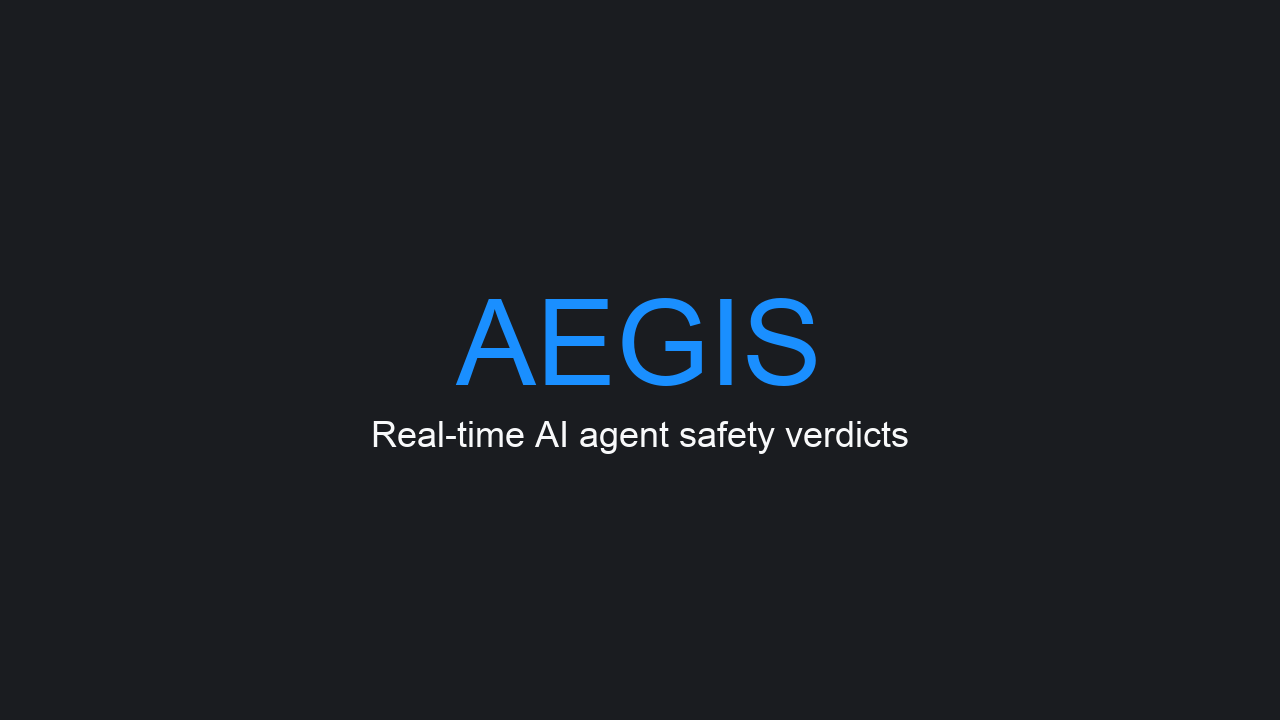
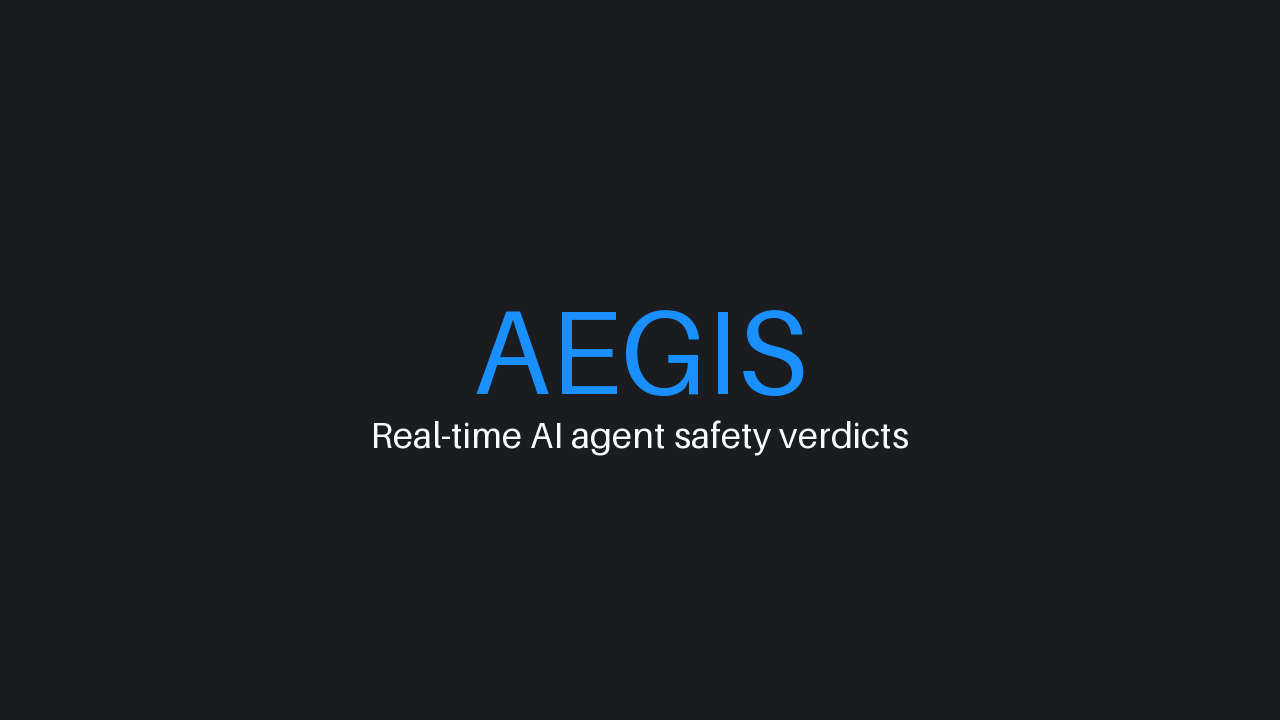
fix(app-09): close font-determinism + Pillow-pin blockers
Multi-reviewer pass (code-reviewer + silent-failure-hunter +
simplification-reviewer) all flagged the same two issues — when three
reviewers converge from different angles, the root cause is real.

Font determinism (was: HIGH-severity silent failure):
- _load_font walked a Mac/Linux candidate list. Committed screenshot.png
  was baked with macOS Arial; a Linux CI runner without Arial would
  regenerate with DejaVu (or worse, bitmap fallback at the wrong size),
  silently failing BDD block-4's md5 round-trip.
- Fix: drop the candidate lookup entirely; use ImageFont.load_default
  (size=...) which ships byte-identical bytes with Pillow on every OS
  and every install. The 5-LOC _load_font helper is gone.

Pillow pin (was: HIGH-severity silent failure):
- pyproject.toml floored Pillow at >=12.2.0. A future minor bump can
  ship encoder/zlib heuristic tweaks that shift PNG bytes without any
  code change here, silently breaking the determinism assertion.
- Fix: pin pillow==12.2.0 exact. Comment in pyproject.toml points at
  the BDD assertion that drives the pin.

Net effect: screenshot.png md5 changed (a3edd2 -> 1b07a7) because the
glyph metrics are now Pillow's default font instead of macOS Arial.
The 4 icon PNGs are unchanged (no text in them).

Reading from local + a fresh uv-locked Pillow 12.2.0 environment now
produces byte-identical PNGs to the committed ones across machines:

  appIcon.png       90c0d236309349945d6a40f8d858de1b
[…]

Changed region(s): [[0.3438, 0.3972, 0.6562, 0.55], [0.2812, 0.5806, 0.7188, 0.6417]]

diff --git a/scripts/generate_app_icons.py b/scripts/generate_app_icons.py
@@ -43,6 +43,14 @@ BLUE = "#1A8FFF"
 WORDMARK = "AEGIS"
 TAGLINE = "Real-time AI agent safety verdicts"
 
+# Pillow's bundled bitmap font: identical bytes across every install of the
+# same Pillow version, on every OS. Picking it kills the Mac-Arial vs
+# Ubuntu-DejaVu drift that would otherwise silently break BDD block 4 the
+# moment CI regenerates on a Linux runner. Pillow is pinned exact in
+# pyproject.toml so a future minor bump can't shift glyph metrics either.
+TITLE_PX = 120
+TAGLINE_PX = 36
+
 
 def _draw_shield(canvas: Image.Image, size: int, fg: str) -> None:
     """Draw a centered shield glyph on `canvas` of `size x size`.
@@ -88,23 +96,6 @@ def _make_icon(size: int, bg: str) -> Image.Image:
     return canvas
 
 
-def _load_font(size: int) -> ImageFont.FreeTypeFont | ImageFont.ImageFont:
-    """Best-effort font lookup. Falls back to PIL's default bitmap font.
-
-    Pillow's load_default is deterministic across versions for the same
-    pixel size argument, so determinism contract holds either way.
-    """
-    candidates = [
-        "/System/Library/Fonts/Supplemental/Arial.ttf",
-        "/usr/share/fonts/truetype/dejavu/DejaVuSans-Bold.ttf",
-        "/Library/Fonts/Arial.ttf",
-    ]
-    for path in candidates:
-        if Path(path).exists():
-            return ImageFont.truetype(path, size=size)
-    return ImageFont.load_default(size=size)
-
-
 def _make_screenshot(width: int = 1280, height: int = 720) -> Image.Image:
     """Splunkbase listing placeholder: wordmark + tagline on dark background.
 
@@ -112,8 +103,8 @@ def _make_screenshot(width: int = 1280, height: int = 720) -> Image.Image:
     """
     canvas = Image.new("RGB", (width, height), NAVY)
     draw = ImageDraw.Draw(canvas)
-    title_font = _load_font(120)
-    tagline_font = _load_font(36)
+    title_font = ImageFont.load_default(size=TITLE_PX)
+    tagline_font = ImageFont.load_default(size=TAGLINE_PX)
     tb = draw.textbbox((0, 0), WORDMARK, font=title_font)
     title_w, title_h = tb[2] - tb[0], tb[3] - tb[1]
     draw.text(